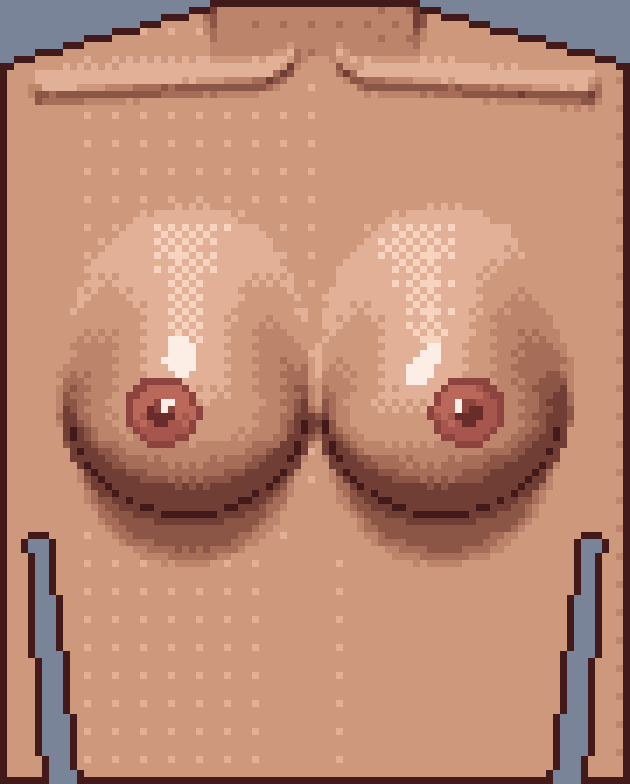
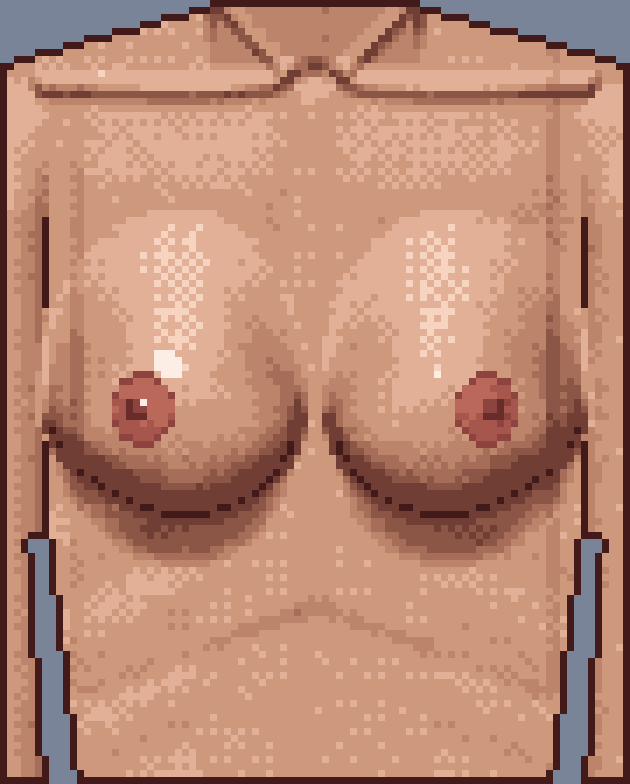
胸部像素圖第 3 版：補脖子／胸骨上窩／鎖骨／上胸／胸骨／肋弓／肋骨／肩膀手臂分界／皮膚斑駁，乳房微微外擴（乳暈乳頭偏外朝外）
Claude-Session: https://claude.ai/code/session_01FDQv7fWuX5qvgCrF71YDxr

diff --git a/web/droom/bust2d.js b/web/droom/bust2d.js
@@ -19,42 +19,59 @@
     const h = new Float32Array(W * H), mask = new Uint8Array(W * H), part = new Uint8Array(W * H);   // part：0 身體、1 乳房、2 乳暈、3 乳頭
     // 軀幹半寬：上面是肩膀（超出畫面），往下胸廓、腰慢慢收
     const half = (y) => y < 10 ? 15 + y * 3.4 + y * y * .02 : 52;   // 上面：脖子 → 斜方肌往兩邊斜下到肩膀（之後超出畫面）
-    const breasts = [-1, 1].map(s => ({ s, x: cx + s * (R * .98 + .5), y: 56 + sag + (R - 18) * .4, R }));
-    let bump = new Float32Array(W * H), which = new Int8Array(W * H);
+    // 乳房：微微外擴（使用者）——最飽滿那點往外、外側半徑大、乳暈乳頭偏外並朝外（看起來橫向被壓窄一點）、外下緣往腋下收上去
+    const breasts = [-1, 1].map(s => ({ s, x: cx + s * (R * 1.0 + 1.2), y: 56 + sag + (R - 18) * .4, R }));
+    let bump = new Float32Array(W * H), which = new Int8Array(W * H), arm = new Uint8Array(W * H);
     for (let y = 0; y < H; y++) for (let x = 0; x < W; x++) {
-      const i = y * W + x, dx = x + .5 - cx, hw = half(y);
+      const i = y * W + x, dx = x + .5 - cx, ax = Math.abs(dx), hw = half(y);
       // 手臂：畫面兩邊（腋下以下跟身體之間留背景縫）
-      const gx0 = 38.5 - Math.max(0, y - 76) * .12;   // 腋下以下：手臂跟身體之間的背景縫（參考圖兩側）
-      const armGap = y > 76 && Math.abs(dx) > gx0 && Math.abs(dx) < gx0 + 2.2 + (y - 76) * .05;
-      if (Math.abs(dx) <= hw && !armGap) mask[i] = 1;
-      // 軀幹高度：圓柱＋鎖骨稜＋胸骨溝＋脖子
+      const gx0 = 38.5 - Math.max(0, y - 76) * .12;
+      const armGap = y > 76 && ax > gx0 && ax < gx0 + 2.2 + (y - 76) * .05;
+      if (ax <= hw && !armGap) mask[i] = 1;
+      // 軀幹：圓柱
       const u = dx / 50; let t = 9 * Math.sqrt(Math.max(0, 1 - u * u));
-      const clav = 10 + Math.abs(dx) * .06 - (Math.abs(dx) < 7 ? (7 - Math.abs(dx)) * .55 : 0);   // 鎖骨：中間 V 字往下
-      if (Math.abs(dx) > 3 && Math.abs(dx) < 40) t += 1.3 * Math.exp(-(((y - clav) / 1.3) ** 2));
-      if (y < 8 && Math.abs(dx) < 15) t += 2.5 * (1 - y / 8);                   // 脖子（往前一點）
-      t -= .9 * Math.exp(-(dx * dx) / 5) * sst(70, 90, y);                         // 胸骨溝（乳房下）
+      // 脖子：往前一點＋兩條胸鎖乳突肌往下收到胸骨上窩
+      if (y < 9 && ax < 15) t += 2.4 * (1 - y / 9);
+      if (y < 11) t += .9 * Math.exp(-(((ax - (4 + (10 - y) * .95)) / 1.3) ** 2));
+      t -= 1.6 * Math.exp(-(dx * dx) / 4 - ((y - 10.5) / 1.6) ** 2);                    // 胸骨上窩（凹）
+      // 鎖骨：從上窩往兩邊、微微 S 形，稜線上亮下暗
+      const clav = 10.5 + ax * .05 + Math.sin(ax / 9) * .9 - (ax < 6 ? (6 - ax) * .5 : 0);
+      if (ax > 3 && ax < 40) t += 1.4 * Math.exp(-(((y - clav) / 1.25) ** 2));
+      // 上胸（胸大肌）一片微微隆起、胸骨中間一條亮
+      t += 1.4 * Math.exp(-(((y - 27) / 9) ** 2)) * sst(2, 8, ax) * (1 - sst(28, 40, ax));
+      t += .45 * Math.exp(-(dx * dx) / 6) * (1 - sst(58, 72, y));
+      // 乳房下：胸骨溝、肋弓（倒 V，上面高下面低）、兩側肋骨淡淡幾條
+      t -= .8 * Math.exp(-(dx * dx) / 5) * sst(70, 90, y);
+      if (ax < 34) t += .55 * sst(-1.6, 1.6, 86 + ax * .38 - y);
+      if (y > 66 && ax > 17 && ax < 38) t += .28 * Math.sin((y - ax * .45) / 2.3) * sst(66, 74, y);
+      // 肩膀／手臂：兩邊的圓柱，跟胸口之間一條摺（三角肌前緣），腋下以下是另一塊
+      // 手臂從肩膀慢慢分出來（上面跟肩膀同一塊、不分界），腋下以下才是分開的一塊
+      const aU = (ax - 47) / 10.5, armH = (7.5 * Math.sqrt(Math.max(0, 1 - aU * aU)) + 1.5 + 1.2 * Math.exp(-(((y - 17) / 7) ** 2))) * sst(4, 18, y);
+      const sep = sst(16, 32, y);
+      if (armH > t && ax > 34) { t = t + (armH - t) * (.35 + .65 * sep); if (sep > .5) arm[i] = 1; }
       h[i] = t;
-      // 乳房凸起：上半半徑拉長、邊緣平緩（融進胸口）；下半邊緣陡（摺痕）
+      // 乳房凸起：上半半徑拉長、邊緣平緩；下半邊緣陡（摺痕）；外側半徑大＝往外擴，外下緣往腋下收
       for (const b of breasts) {
-        const bx = (x + .5 - b.x) / b.R, by = (y + .5 - b.y) / b.R;
-        const up = by < 0, ry = up ? 1.55 : .96, rx = 1 + Math.max(0, -by) * .1;
+        const bx = (x + .5 - b.x) / b.R, by = (y + .5 - b.y) / b.R, out = bx * b.s;   // out>0＝外側
+        const ry = by < 0 ? 1.55 : .97 - .14 * Math.max(0, out), rx = (out > 0 ? 1.12 : 1.0) + Math.max(0, -by) * .1;
         const e = Math.hypot(bx / rx, by / ry); if (e >= 1) continue;
-        const k = sst(-.8, .45, by);                                               // 0＝上半、1＝下半
-        const prof = Math.pow(1 - e * e, .5 + (1 - k) * 1.3);                       // 上半指數大＝邊緣平緩
+        const k = sst(-.8, .45, by);
+        const prof = Math.pow(1 - e * e, .5 + (1 - k) * 1.3);
         const v = b.R * hk * prof;
         if (v > bump[i]) { bump[i] = v; which[i] = b.s; }
       }
-      h[i] += bump[i]; if (bump[i] > .05) part[i] = 1;
+      h[i] += bump[i]; if (bump[i] > .05) { part[i] = 1; arm[i] = 0; }
     }
-    // 乳暈、乳頭（中心偏外、略低）
+    // 乳暈、乳頭：偏外、略低；朝外所以橫向窄一點，乳頭再往外一點
     const AR = R * .3;
     for (const b of breasts) {
-      b.ax = b.x + b.s * R * .2; b.ay = b.y + R * .1;
+      b.ax = b.x + b.s * R * .3; b.ay = b.y + R * .08;
       for (let y = Math.floor(b.ay - AR - 2); y <= b.ay + AR + 2; y++) for (let x = Math.floor(b.ax - AR - 2); x <= b.ax + AR + 2; x++) {
         if (x < 0 || y < 0 || x >= W || y >= H) continue;
-        const d = Math.hypot(x + .5 - b.ax, (y + .5 - b.ay) * 1.05), i = y * W + x;
+        const d = Math.hypot((x + .5 - b.ax) / .84, (y + .5 - b.ay) * 1.02), i = y * W + x;
         if (d <= AR) { part[i] = 2; h[i] += .35 * (1 - d / AR); }
-        if (d <= AR * .38) { part[i] = 3; h[i] += .9 * (1 - d / (AR * .38)); }
+        const dn = Math.hypot((x + .5 - b.ax - b.s * AR * .22) / .84, y + .5 - b.ay);
+        if (dn <= AR * .36) { part[i] = 3; h[i] += .9 * (1 - dn / (AR * .36)); }
       }
     }
     const H_ = (x, y) => h[Math.max(0, Math.min(H - 1, y)) * W + Math.max(0, Math.min(W - 1, x))];
@@ -70,6 +87,7 @@
       for (const [ox, oy] of [[1, 0], [-1, 0], [0, 1], [0, -1]]) { const xx = x + ox, yy = y + oy; if (xx < 0 || yy < 0 || xx >= W || yy >= H || !mask[yy * W + xx]) edge = true; }
       const drop = Math.max(h[i] - H_(x, y + 1), (h[i] - H_(x + 1, y)) * (which[i] > 0 ? 1 : 0), (h[i] - H_(x - 1, y)) * (which[i] < 0 ? 1 : 0), (h[i] - H_(x + which[i] * -1, y)) * (part[i] && Math.abs(x + .5 - cx) < R * .9 ? 1 : 0));
       if (part[i] && drop > 2.4 && y > breasts[0].y - R * .25) edge = true;
+      if (!edge && arm[i] && y > 30 && (x > 0 && !arm[i - 1] && !part[i - 1] || x < W - 1 && !arm[i + 1] && !part[i + 1])) edge = true;   // 手臂跟身體之間（腋下以下）
       if (edge) { put(i, C.out); continue; }
       const gx = (H_(x + 1, y) - H_(x - 1, y)) / 2, gy = (H_(x, y + 1) - H_(x, y - 1)) / 2;
       let nx = -gx, ny = gy, nz = 1.6; const nl = Math.hypot(nx, ny, nz); nx /= nl; ny /= nl; nz /= nl;
@@ -81,11 +99,13 @@
       const spec = nx * HV[0] + ny * HV[1] + nz * HV[2];
       const b = breasts[which[i] < 0 ? 0 : 1], dA = Math.hypot(x + .5 - b.ax, y + .5 - b.ay);
       // 濕亮：只在乳頭內上方一小塊（參考圖）
-      if (part[i] === 1 && dA < AR * 2 && dA > AR * 1.05 && (x + .5 - b.ax) * b.s < 0 && y + .5 < b.ay + 1 && spec > .992) { put(i, C.spec); continue; }
+      if (part[i] === 1 && dA < AR * 2 && dA > AR * 1.05 && (x + .5 - b.ax) * b.s < 0 && y + .5 < b.ay && dA < AR * 1.7 && spec > .9935) { put(i, C.spec); continue; }
       if (part[i] === 3 && spec > .985 && (x + .5 - b.ax) * b.s < .5) { put(i, C.spec); continue; }
       if (part[i] === 2 && dA > AR - 1.1) { put(i, AREOLA[Math.min(AREOLA.length - 1, 3)]); continue; }   // 乳暈外圈深
       const pal = part[i] >= 2 ? AREOLA : SKIN, n = pal.length;
       if (pal === AREOLA) fi = fi * .6;
+      if (arm[i] && y > 22 && y < 34 && (x > 0 && !arm[i - 1] || x < W - 1 && !arm[i + 1])) fi += 1.2;   // 三角肌前緣：淡淡一條摺
+      fi += ((Math.imul(x * 73856093 ^ y * 19349663, 2654435761) >>> 0) / 4294967296 - .5) * .38;   // 皮膚微微斑駁（參考圖的質感）
       let idx = Math.round(fi + BAYER[(y & 3) * 4 + (x & 3)] * .55);
       idx = Math.max(0, Math.min(n - 1, idx));
       put(i, part[i] === 3 ? (idx >= 2 ? C.nip : AREOLA[idx + 2]) : pal[idx]);

diff --git a/web/droom/README.md b/web/droom/README.md
@@ -342,3 +342,4 @@ play.html (/droom/play): Doom-style raycaster room, one wandering girl billboard
 - 使用者：3D 算的爛透了，先從 C 罩杯畫一張。改成照像素參考圖一格一格畫（90×104 格）：深色背景、脖子／肩／手臂／軀幹剪影＋深紅棕外框；乳房一片淺桃色，上半融進胸口（只點狀淡淡一圈），下半＋外側＋乳溝描深線；乳房下面身體深色投影；乳暈外圈深、裡面淺，乳頭深＋亮點，乳頭內側一道白亮點；鎖骨、肚臍、肩膀亮點。`draw({cup})`，`CUPS` 先放 A～I 的半徑／下垂（只看過 C）。
 - 樣本 `samples/bust2d_C.png`（8 倍放大）。還沒接揉乳房視窗。
 - 第 2 版（使用者第二張參考圖：胸部近景）：改成 2D 高度圖打光——軀幹圓柱＋鎖骨稜＋胸骨溝；兩顆乳房凸起（上半半徑拉長、邊緣平緩＝融進胸口；下半邊緣陡＝摺痕；兩顆取 max＝中間碰在一起有乳溝）；法線打光（幾乎正面）＋上方遮擋＝乳房下陰影；7 階棕褐皮膚、5 階乳暈，用 4×4 Bayer 抖動過渡；外框：剪影＋乳房下緣／外側陡降處；乳頭內上方一小塊濕亮。90×112 格，藍灰背景。C 罩杯樣本 `samples/bust2d_C.png`（7 倍）。
+- 第 3 版（使用者：不是只有胸部，其他地方呢？胸部微微外擴呢？）：脖子兩條胸鎖乳突肌收到胸骨上窩（凹）、鎖骨微 S 形稜線、上胸胸大肌微隆、胸骨中間一條亮；乳房下胸骨溝、肋弓倒 V、兩側淡淡肋骨；肩膀跟手臂從上面同一塊慢慢分開，腋下以下手臂跟身體之間一條深線、三角肌前緣淡摺；皮膚微微斑駁。乳房外擴：最飽滿點往外、外側半徑大、外下緣往腋下收；乳暈乳頭偏外、朝外（橫向窄一點）、乳頭再往外一點。
